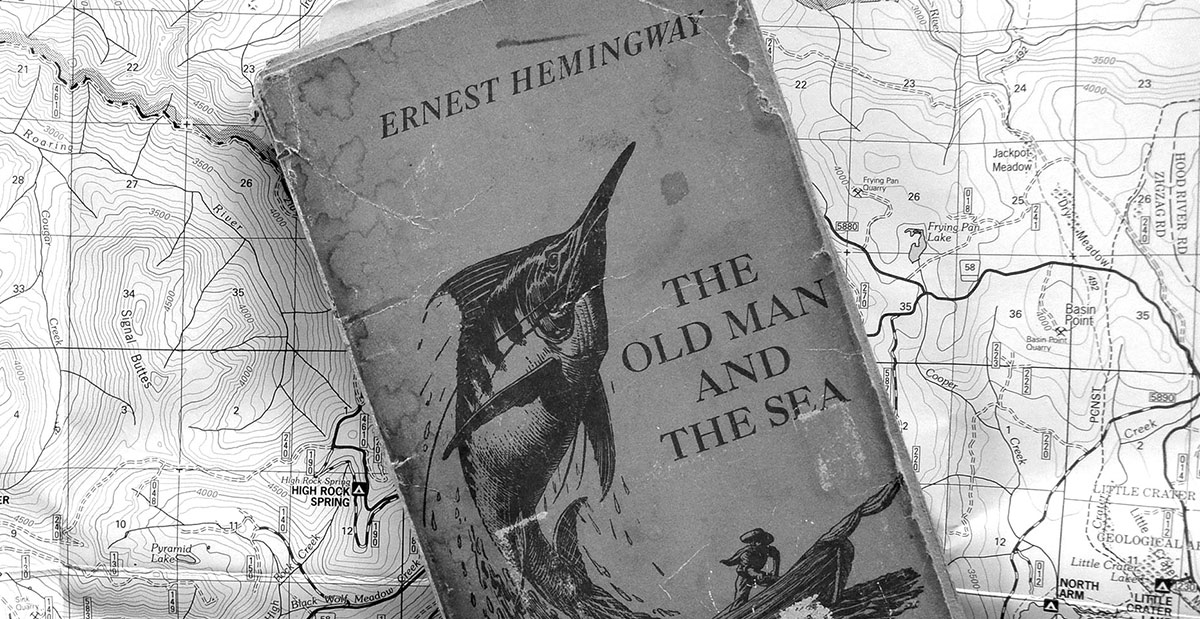
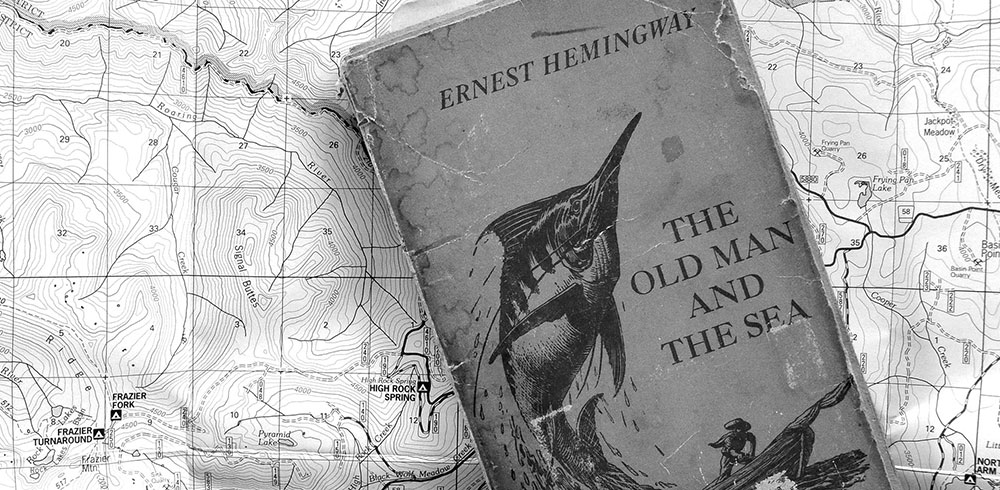
Image work for decorative background, styling, media queries

diff --git a/_sass/_layout.scss b/_sass/_layout.scss
@@ -104,15 +104,32 @@ nav.site-nav {
 }
 
 .about-image {
-    margin-top: -1em;
+    background-image: url(../assets/images/header.jpg);
+    height: calc(100% - 194px);
+    //background-attachment: fixed;
+    background-position: center;
+    background-repeat: no-repeat;
+}
+
+@media only screen and (max-width: 1300px) {
+    .about-image {
+        background-image: url(../assets/images/header-medium.jpg);
+    }
+}
+
+@media only screen and (max-width: 980px) {
+    .about-image {
+        background-image: url(../assets/images/header-small.jpg);
+    }
 }
 
 @media only screen and (max-width: 640px) {
     .about-image {
-        width: 100%;
+        background-image: url(../assets/images/header-verysmall.jpg);
+        height: 281px;
     }
     #words-and-maps {
-        margin-top: .5rem;
+        margin-top: 1rem;
     }
 }
 

diff --git a/_layouts/about.html b/_layouts/about.html
@@ -3,8 +3,8 @@
   {% include head.html %}
   <body>
     {% include header_index.html %}
-      
-      <img class="about-image" src="../assets/images/header.jpg" alt="Hemingway's The Old Man and the Sea with a topographical map of Oregon"/>      
+   
+<div class="about-image"></div>   
 <div class="wrapper">
     <div class="about">
         {{ content }}
